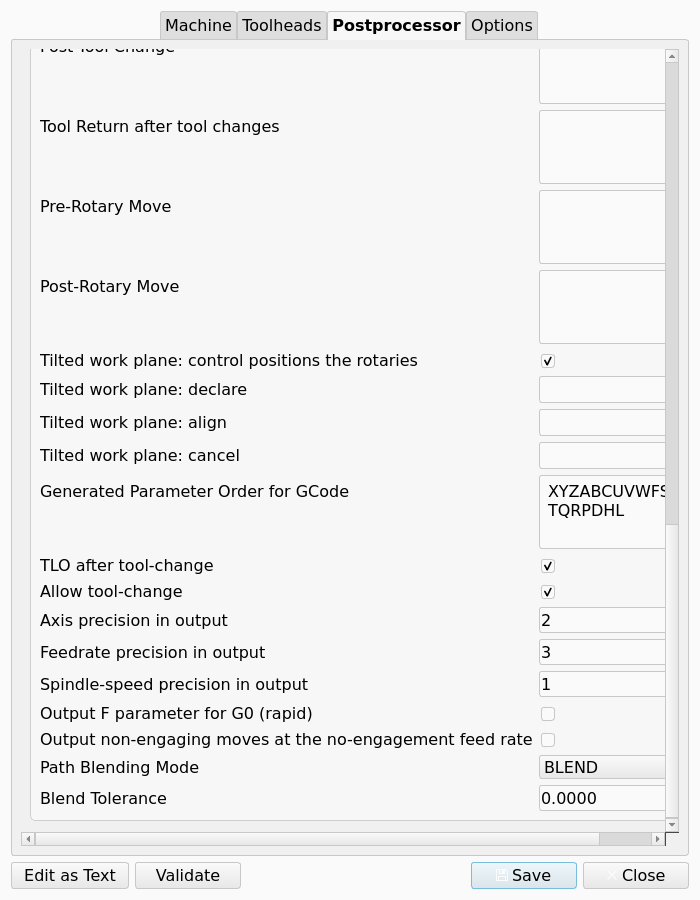
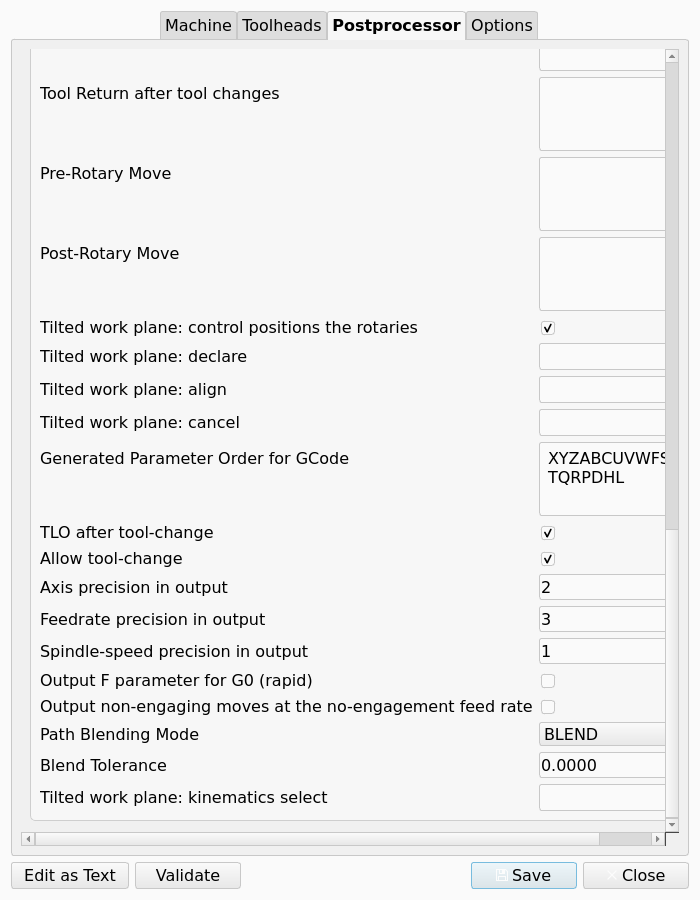
preview: pr-18 7a8092676ea445924f7ec5b805f67f71b812607e 7a8092676ea445924f7ec5b805f67f71b812607e

diff --git a/pr-18/changes.html b/pr-18/changes.html
@@ -7,5 +7,5 @@ code{font-size:.85em;color:#555}</style></head><body>
 <h1>Changed pages</h1>
 <p>pull request #18 against <code>main</code>. 7 changed or new, 0 removed.
 <a href="index.html">Open the site</a>.</p>
-<table><thead><tr><th>Page</th><th>Change</th><th></th><th>Path</th></tr></thead><tbody><tr><td><a href="cam/DEV/job/work-plane.diff.html">Work Plane</a></td><td>+83 / −0 words</td><td><a href="cam/DEV/job/work-plane.html">without marks</a></td><td><code>cam/DEV/job/work-plane.html</code></td></tr><tr><td><a href="cam/DEV/output/machine.diff.html">Machine</a></td><td>+123 / −0 words</td><td><a href="cam/DEV/output/machine.html">without marks</a></td><td><code>cam/DEV/output/machine.html</code></td></tr><tr><td><a href="cam/DEV/output/mbpp-postprocessor.diff.html">Writing a Machine-Based Post-Processor</a></td><td>+342 / −4 words</td><td><a href="cam/DEV/output/mbpp-postprocessor.html">without marks</a></td><td><code>cam/DEV/output/mbpp-postprocessor.html</code></td></tr><tr><td><a href="cam/DEV/output/post-process.diff.html">Post Process</a></td><td>+346 / −0 words</td><td><a href="cam/DEV/output/post-process.html">without marks</a></td><td><code>cam/DEV/output/post-process.html</code></td></tr><tr><td><a href="cam/DEV/output/postprocessor-customization.diff.html">Postprocessor Customization</a></td><td>+439 / −1 words</td><td><a href="cam/DEV/output/postprocessor-customization.html">without marks</a></td><td><code>cam/DEV/output/postprocessor-customization.html</code></td></tr><tr><td><a href="cam/DEV/output/posts/fanuc.diff.html">Fanuc Post-Processor</a></td><td>+144 / −39 words</td><td><a href="cam/DEV/output/posts/fanuc.html">without marks</a></td><td><code>cam/DEV/output/posts/fanuc.html</code></td></tr><tr><td><a href="cam/DEV/reference/scripting.diff.html">CAM scripting</a></td><td>+204 / −1 words</td><td><a href="cam/DEV/reference/scripting.html">without marks</a></td><td><code>cam/DEV/reference/scripting.html</code></td></tr></tbody></table>
+<table><thead><tr><th>Page</th><th>Change</th><th></th><th>Path</th></tr></thead><tbody><tr><td><a href="cam/DEV/job/work-plane.diff.html">Work Plane</a></td><td>+83 / −0 words</td><td><a href="cam/DEV/job/work-plane.html">without marks</a></td><td><code>cam/DEV/job/work-plane.html</code></td></tr><tr><td><a href="cam/DEV/output/machine.diff.html">Machine</a></td><td>+123 / −0 words, 1 figure(s) changed</td><td><a href="cam/DEV/output/machine.html">without marks</a></td><td><code>cam/DEV/output/machine.html</code></td></tr><tr><td><a href="cam/DEV/output/mbpp-postprocessor.diff.html">Writing a Machine-Based Post-Processor</a></td><td>+342 / −4 words</td><td><a href="cam/DEV/output/mbpp-postprocessor.html">without marks</a></td><td><code>cam/DEV/output/mbpp-postprocessor.html</code></td></tr><tr><td><a href="cam/DEV/output/post-process.diff.html">Post Process</a></td><td>+346 / −0 words</td><td><a href="cam/DEV/output/post-process.html">without marks</a></td><td><code>cam/DEV/output/post-process.html</code></td></tr><tr><td><a href="cam/DEV/output/postprocessor-customization.diff.html">Postprocessor Customization</a></td><td>+439 / −1 words</td><td><a href="cam/DEV/output/postprocessor-customization.html">without marks</a></td><td><code>cam/DEV/output/postprocessor-customization.html</code></td></tr><tr><td><a href="cam/DEV/output/posts/fanuc.diff.html">Fanuc Post-Processor</a></td><td>+144 / −39 words</td><td><a href="cam/DEV/output/posts/fanuc.html">without marks</a></td><td><code>cam/DEV/output/posts/fanuc.html</code></td></tr><tr><td><a href="cam/DEV/reference/scripting.diff.html">CAM scripting</a></td><td>+204 / −1 words</td><td><a href="cam/DEV/reference/scripting.html">without marks</a></td><td><code>cam/DEV/reference/scripting.html</code></td></tr></tbody></table>
 </body></html>

diff --git a/pr-18/cam/DEV/output/machine.diff.html b/pr-18/cam/DEV/output/machine.diff.html
@@ -451,7 +451,7 @@ document.addEventListener('DOMContentLoaded', async () => {
 <aside class="toc sidebar" data-title="Contents" data-levels="2">
   <div class="toc-menu"></div>
 </aside>
-<article class="doc"><div class="diff-banner"><span><strong>Rendered diff</strong>: pull request #18 against <code>main</code>. <span class="diff-key"><ins>added</ins> <del>removed</del></span> <button id="diff-prev" title="key: p">◀ Previous</button> <button id="diff-next" title="key: n">Next change ▶</button> <span id="diff-pos">3 changed blocks</span></span><a href="machine.html">Page without marks</a><a href="../../../changes.html">All changed pages</a></div><h1 class="page">Machine</h1><div class="openblock fcinfobox">
+<article class="doc"><div class="diff-banner"><span><strong>Rendered diff</strong>: pull request #18 against <code>main</code>. <span class="diff-key"><ins>added</ins> <del>removed</del></span> <button id="diff-prev" title="key: p">◀ Previous</button> <button id="diff-next" title="key: n">Next change ▶</button> <span id="diff-pos">4 changed blocks</span></span><a href="machine.html">Page without marks</a><a href="../../../changes.html">All changed pages</a></div><h1 class="page">Machine</h1><div class="openblock fcinfobox">
 <div class="content">
 <div class="paragraph fcTitle">
 <p><span class="image"><img src="../_images/CAM_Machine.svg" alt="Machine" width="32"></span> <strong>Machine</strong></p>
@@ -651,7 +651,7 @@ document.addEventListener('DOMContentLoaded', async () => {
 <p>The figure shows the end of the property list for the <code>linuxcnc</code> Post, with Machine-scope and Job-scope properties.</p>
 </div><div class="imageblock">
 <div class="content">
-<img src="../_images/output/machine/editor-postprocessor-tab.png" alt="Machine Editor, Postprocessor tab, moved down to the last properties of the linuxcnc Post" width="400">
+<span class="diff-img-pair diff-changed"><span>Before<img src="../../../_diff/old/cam/DEV/_images/output/machine/editor-postprocessor-tab.png" class="diff-img-old" alt="Before: Machine Editor, Postprocessor tab, moved down to the last properties of the linuxcnc Post" width="400"></span><span>After<img src="../_images/output/machine/editor-postprocessor-tab.png" alt="Machine Editor, Postprocessor tab, moved down to the last properties of the linuxcnc Post" width="400" class="diff-img-new"></span></span>
 </div>
 </div><div class="ulist">
 <ul>
